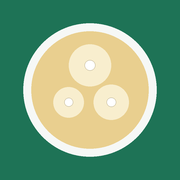
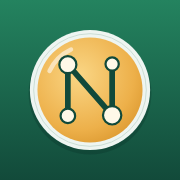
Add files via upload

diff --git a/en-download.html b/en-download.html
@@ -11,7 +11,8 @@
 <meta name="description" content="Download BioLab Nexus for Windows and Android, or add it to the home screen on iPhone. File verification codes.">
 <link rel="alternate" hreflang="tr" href="indir.html">
 <link rel="alternate" hreflang="en" href="en-download.html">
-<link rel="icon" href="simge-192.png">
+<link rel="icon" href="simge.svg" type="image/svg+xml">
+<link rel="icon" href="simge-192.png" sizes="192x192">
 <link rel="apple-touch-icon" href="apple-touch-icon.png">
 <link rel="stylesheet" href="stil.css">
 <script src="site.js" defer></script>
@@ -19,7 +20,7 @@
 <body>
 <a class="atla" href="#icerik">Skip to content</a>
 <header class="ust"><div class="kap ust-ic">
-<a class="marka" href="en.html"><svg class="logo" viewBox="0 0 24 24" aria-hidden="true"><path d="M21 12a9 9 0 1 1-18 0 9 9 0 0 1 18 0zM11.2 10a2.2 2.2 0 1 1-4.4 0 2.2 2.2 0 0 1 4.4 0zM17.1 14a1.6 1.6 0 1 1-3.2 0 1.6 1.6 0 0 1 3.2 0zM15 8.2a1 1 0 1 1-2 0 1 1 0 0 1 2 0z"/></svg><span>BioLab Nexus</span></a>
+<a class="marka" href="en.html"><svg class="logo" viewBox="0 0 24 24" aria-hidden="true"><path d="M21 12a9 9 0 1 1-18 0 9 9 0 0 1 18 0zM9 16V9.9M9.9 9.6l4.1 4.7M15 13.9V8M10.4 8.5a1.4 1.4 0 1 1-2.8 0 1.4 1.4 0 0 1 2.8 0zM16.6 15.5a1.6 1.6 0 1 1-3.2 0 1.6 1.6 0 0 1 3.2 0z"/></svg><span>BioLab Nexus</span></a>
 <nav class="nav" aria-label="Site"><a href="en.html">Home</a><a href="en-download.html" aria-current="page">Download</a><a href="en-institutions.html">For institutions</a><a href="en-help.html">Help</a></nav>
 <details class="dil-secici"><summary aria-label="Language: English"><svg class="dil-dunya" viewBox="0 0 24 24" aria-hidden="true"><circle cx="12" cy="12" r="9"/><path d="M3 12h18M12 3a14 14 0 0 1 0 18M12 3a14 14 0 0 0 0 18"/></svg><span class="dil-ad">English</span><span class="dil-kod">EN</span><svg class="dil-ok" viewBox="0 0 24 24" aria-hidden="true"><path d="m6 9 6 6 6-6"/></svg></summary><ul class="dil-liste"><li><a href="indir.html" hreflang="tr" lang="tr">Türkçe</a></li><li><a href="en-download.html" hreflang="en" lang="en" aria-current="true">English</a></li></ul></details>
 <details class="nav-tel"><summary>Menu</summary><nav aria-label="Site menu"><a href="en.html">Home</a><a href="en-download.html" aria-current="page">Download</a><a href="en-institutions.html">For institutions</a><a href="en-help.html">Help</a></nav></details>
@@ -27,15 +28,15 @@
 <main id="icerik">
 <section class="sayfa-bas"><div class="kap">
 <h1>Download BioLab Nexus</h1>
-<p class="giris">Latest version 0.87.0, 19 November 2026. Download files only from this page; an installer obtained elsewhere may have been altered. The program’s interface is available in English and Turkish.</p>
+<p class="giris">Latest version 0.88.0, 19 November 2026. Download files only from this page; an installer obtained elsewhere may have been altered. The program’s interface is available in English and Turkish.</p>
 </div></section>
 
 <section class="bolum ilk"><div class="kap platformlar">
 <article class="platform" id="windows">
 <svg class="ikon" viewBox="0 0 24 24" aria-hidden="true"><path d="M4 5h16v11H4zM8 20h8M12 16v4"/></svg>
 <h2>Windows</h2>
-<span class="durum">Coming soon</span><p>The Windows installer is being prepared. For pilot institutions we currently do the installation ourselves.</p>
-<ul class="gereksinim"><li>Windows 10 or 11, 64-bit</li><li>At least 4 GB of memory and 2 GB of free disk space</li><li>The 16S reference and BLAST will be included in the installer; nothing else will need to be downloaded</li></ul>
+<span class="durum">Coming soon</span><p>The Windows installer is ready and being tested. The download link will appear here once the signed release is published; for pilot institutions we currently do the installation ourselves.</p>
+<ul class="gereksinim"><li>Windows 10 or 11, 64-bit</li><li>At least 4 GB of memory and 2 GB of free disk space</li><li>No need to install Python or any other program; no administrator permission is asked for</li><li>The 16S reference and BLAST are downloaded once from inside the program on first use (about 150 MB; internet needed)</li></ul>
 </article>
 <article class="platform" id="android">
 <svg class="ikon" viewBox="0 0 24 24" aria-hidden="true"><path d="M7 2.5h10a1.5 1.5 0 0 1 1.5 1.5v16a1.5 1.5 0 0 1-1.5 1.5H7A1.5 1.5 0 0 1 5.5 20V4A1.5 1.5 0 0 1 7 2.5zM10.5 18.5h3"/></svg>
@@ -69,14 +70,14 @@
 
 <section class="bolum" aria-labelledby="yenilikler"><div class="kap dar">
 <h2 id="yenilikler">What’s new in this version</h2>
-<ul class="liste"><li>The program can now be used in English: choose it in the Language box in the top bar (on a phone, at the bottom of the Menu); your records are not translated.</li><li>The website is in English and Turkish, with English screenshots of the program on the English pages.</li><li>New look: a light “Plate” theme and a dark “Night shift” theme, with highly legible typefaces.</li><li>On a computer the program opens in its own window; on a phone it has a bottom tab bar and a Menu that opens every section.</li><li>The home page shows a drawing of the latest plate measurement, the instrument schedule and recent records.</li><li>Account requests and approval: the invitation goes to the school email address, and people choose their own username.</li></ul>
+<ul class="liste"><li>Windows installer: no Python needed and no administrator permission asked for; the program opens in its own window and stops by itself when the window is closed. Records are kept in a separate folder that updates and uninstalling never delete.</li><li>A new program icon.</li><li>Account security: the number of sessions open at the same time on one account is limited (2 by default; the administrator can choose 1–5). Signing in on another device closes the oldest session, and that device is told why. You can see and close your open sessions in Settings.</li><li>The program can now be used in English: choose it in the Language box in the top bar (on a phone, at the bottom of the Menu); your records are not translated.</li><li>The website is in English and Turkish, with English screenshots of the program on the English pages.</li><li>Account requests and approval: the invitation goes to the school email address, and people choose their own username.</li></ul>
 </div></section>
 
 </main>
 <footer class="alt"><div class="kap alt-ic">
 <div><p class="alt-marka">BioLab Nexus</p><p>Records, 16S identification, experiment and instrument booking software for microbiology laboratories.</p></div>
 <nav aria-label="Footer links"><a href="en-download.html">Download</a><a href="en-institutions.html">For institutions</a><a href="en-help.html">Help</a><a href="en-privacy.html">Privacy</a><a href="mailto:iletisim@ornek.com">Contact</a></nav>
-<p class="telif">© 2026 Furkan Koç. All rights reserved. BioLab Nexus may be used only under a written licence agreement. Latest version 0.87.0 (19 November 2026).</p>
+<p class="telif">© 2026 Furkan Koç. All rights reserved. BioLab Nexus may be used only under a written licence agreement. Latest version 0.88.0 (19 November 2026).</p>
 </div></footer>
 </body>
 </html>

diff --git a/indir.html b/indir.html
@@ -11,7 +11,8 @@
 <meta name="description" content="BioLab Nexus&#x27;u Windows bilgisayara ve Android telefona indirin; iPhone&#x27;da ana ekrana ekleyin. Dosya doğrulama kodları.">
 <link rel="alternate" hreflang="tr" href="indir.html">
 <link rel="alternate" hreflang="en" href="en-download.html">
-<link rel="icon" href="simge-192.png">
+<link rel="icon" href="simge.svg" type="image/svg+xml">
+<link rel="icon" href="simge-192.png" sizes="192x192">
 <link rel="apple-touch-icon" href="apple-touch-icon.png">
 <link rel="stylesheet" href="stil.css">
 <script src="site.js" defer></script>
@@ -19,7 +20,7 @@
 <body>
 <a class="atla" href="#icerik">İçeriğe geç</a>
 <header class="ust"><div class="kap ust-ic">
-<a class="marka" href="index.html"><svg class="logo" viewBox="0 0 24 24" aria-hidden="true"><path d="M21 12a9 9 0 1 1-18 0 9 9 0 0 1 18 0zM11.2 10a2.2 2.2 0 1 1-4.4 0 2.2 2.2 0 0 1 4.4 0zM17.1 14a1.6 1.6 0 1 1-3.2 0 1.6 1.6 0 0 1 3.2 0zM15 8.2a1 1 0 1 1-2 0 1 1 0 0 1 2 0z"/></svg><span>BioLab Nexus</span></a>
+<a class="marka" href="index.html"><svg class="logo" viewBox="0 0 24 24" aria-hidden="true"><path d="M21 12a9 9 0 1 1-18 0 9 9 0 0 1 18 0zM9 16V9.9M9.9 9.6l4.1 4.7M15 13.9V8M10.4 8.5a1.4 1.4 0 1 1-2.8 0 1.4 1.4 0 0 1 2.8 0zM16.6 15.5a1.6 1.6 0 1 1-3.2 0 1.6 1.6 0 0 1 3.2 0z"/></svg><span>BioLab Nexus</span></a>
 <nav class="nav" aria-label="Site"><a href="index.html">Ana sayfa</a><a href="indir.html" aria-current="page">İndir</a><a href="kurumlar.html">Kurumlar için</a><a href="yardim.html">Yardım</a></nav>
 <details class="dil-secici"><summary aria-label="Dil: Türkçe"><svg class="dil-dunya" viewBox="0 0 24 24" aria-hidden="true"><circle cx="12" cy="12" r="9"/><path d="M3 12h18M12 3a14 14 0 0 1 0 18M12 3a14 14 0 0 0 0 18"/></svg><span class="dil-ad">Türkçe</span><span class="dil-kod">TR</span><svg class="dil-ok" viewBox="0 0 24 24" aria-hidden="true"><path d="m6 9 6 6 6-6"/></svg></summary><ul class="dil-liste"><li><a href="indir.html" hreflang="tr" lang="tr" aria-current="true">Türkçe</a></li><li><a href="en-download.html" hreflang="en" lang="en">English</a></li></ul></details>
 <details class="nav-tel"><summary>Menü</summary><nav aria-label="Site menüsü"><a href="index.html">Ana sayfa</a><a href="indir.html" aria-current="page">İndir</a><a href="kurumlar.html">Kurumlar için</a><a href="yardim.html">Yardım</a></nav></details>
@@ -27,15 +28,15 @@
 <main id="icerik">
 <section class="sayfa-bas"><div class="kap">
 <h1>BioLab Nexus’u indirin</h1>
-<p class="giris">Son sürüm 0.87.0, 19 Kasım 2026. Dosyaları yalnız bu sayfadan indirin; başka bir yerden gelen kurulum dosyası değiştirilmiş olabilir.</p>
+<p class="giris">Son sürüm 0.88.0, 19 Kasım 2026. Dosyaları yalnız bu sayfadan indirin; başka bir yerden gelen kurulum dosyası değiştirilmiş olabilir.</p>
 </div></section>
 
 <section class="bolum ilk"><div class="kap platformlar">
 <article class="platform" id="windows">
 <svg class="ikon" viewBox="0 0 24 24" aria-hidden="true"><path d="M4 5h16v11H4zM8 20h8M12 16v4"/></svg>
 <h2>Windows</h2>
-<span class="durum">Hazırlanıyor</span><p>Windows kurulum dosyası hazırlanıyor. Pilot kurumlarda kurulumu şimdilik biz yapıyoruz.</p>
-<ul class="gereksinim"><li>Windows 10 ya da 11, 64 bit</li><li>En az 4 GB bellek, 2 GB boş disk alanı</li><li>16S referansı ve BLAST kurulum dosyasının içinde olacak; ayrıca bir şey indirmeniz gerekmeyecek</li></ul>
+<span class="durum">Hazırlanıyor</span><p>Windows kurulum dosyası hazırlandı ve deneniyor. İmzalı sürüm yayımlanınca indirme bağlantısı burada yer alacak; pilot kurumlarda kurulumu şimdilik biz yapıyoruz.</p>
+<ul class="gereksinim"><li>Windows 10 ya da 11, 64 bit</li><li>En az 4 GB bellek, 2 GB boş disk alanı</li><li>Python ya da başka bir program kurmak gerekmez; yönetici izni istenmez</li><li>16S referansı ve BLAST ilk kullanımda programın içinden bir kez indirilir (yaklaşık 150 MB, internet gerekir)</li></ul>
 </article>
 <article class="platform" id="android">
 <svg class="ikon" viewBox="0 0 24 24" aria-hidden="true"><path d="M7 2.5h10a1.5 1.5 0 0 1 1.5 1.5v16a1.5 1.5 0 0 1-1.5 1.5H7A1.5 1.5 0 0 1 5.5 20V4A1.5 1.5 0 0 1 7 2.5zM10.5 18.5h3"/></svg>
@@ -69,14 +70,14 @@
 
 <section class="bolum" aria-labelledby="yenilikler"><div class="kap dar">
 <h2 id="yenilikler">Bu sürümde neler var?</h2>
-<ul class="liste"><li>Program artık İngilizce de kullanılabiliyor: üst çubuktaki Dil kutusundan (telefonda Menü’nün en altından) seçilir; kayıtlar çevrilmez.</li><li>Site Türkçe ve İngilizce; İngilizce sayfalarda programın İngilizce ekran görüntüleri.</li><li>Yeni görünüm: açık “Plaka” ve koyu “Gece vardiyası” temaları, okunaklı yazı tipleri.</li><li>Bilgisayarda program kendi penceresinde açılır; telefonda alt sekme çubuğu ve bütün bölümleri açan Menü.</li><li>Ana sayfada son plaka ölçümünün çizimi, cihaz planı ve son kayıtlar.</li><li>Hesap talebi ve onay akışı: okul e-postasına giden davet, kullanıcı adını kişinin kendisinin seçmesi.</li></ul>
+<ul class="liste"><li>Windows kurulum dosyası: Python gerekmez, yönetici izni istenmez; program kendi penceresinde açılır ve pencere kapanınca kendiliğinden durur. Kayıtlar ayrı bir klasörde tutulur; güncelleme ve kaldırma silmez.</li><li>Yeni program simgesi.</li><li>Hesap güvenliği: bir hesapta aynı anda açık oturum sayısı sınırlı (varsayılan 2; yönetici 1–5 arası seçer). Başka bir cihazdan girilince en eski oturum kapanır ve o cihaza nedeni söylenir. Ayarlar’da açık oturumlarınızı görüp kapatabilirsiniz.</li><li>Program artık İngilizce de kullanılabiliyor: üst çubuktaki Dil kutusundan (telefonda Menü’nün en altından) seçilir; kayıtlar çevrilmez.</li><li>Site Türkçe ve İngilizce; İngilizce sayfalarda programın İngilizce ekran görüntüleri.</li><li>Hesap talebi ve onay akışı: okul e-postasına giden davet, kullanıcı adını kişinin kendisinin seçmesi.</li></ul>
 </div></section>
 
 </main>
 <footer class="alt"><div class="kap alt-ic">
 <div><p class="alt-marka">BioLab Nexus</p><p>Mikrobiyoloji laboratuvarları için kayıt, 16S tanımlama, deney ve cihaz randevu programı.</p></div>
 <nav aria-label="Alt bağlantılar"><a href="indir.html">İndir</a><a href="kurumlar.html">Kurumlar için</a><a href="yardim.html">Yardım</a><a href="gizlilik.html">Gizlilik</a><a href="mailto:iletisim@ornek.com">İletişim</a></nav>
-<p class="telif">© 2026 Furkan Koç. Tüm hakları saklıdır. BioLab Nexus yalnız yazılı lisans sözleşmesiyle kullanılabilir. Son sürüm 0.87.0 (19 Kasım 2026).</p>
+<p class="telif">© 2026 Furkan Koç. Tüm hakları saklıdır. BioLab Nexus yalnız yazılı lisans sözleşmesiyle kullanılabilir. Son sürüm 0.88.0 (19 Kasım 2026).</p>
 </div></footer>
 </body>
 </html>

diff --git a/en.html b/en.html
@@ -11,7 +11,8 @@
 <meta name="description" content="16S identification from Sanger reads, zone measurements, experiment records, instrument bookings, molecular analysis and 3D structure viewing in one program. Windows, Android and iPhone.">
 <link rel="alternate" hreflang="tr" href="index.html">
 <link rel="alternate" hreflang="en" href="en.html">
-<link rel="icon" href="simge-192.png">
+<link rel="icon" href="simge.svg" type="image/svg+xml">
+<link rel="icon" href="simge-192.png" sizes="192x192">
 <link rel="apple-touch-icon" href="apple-touch-icon.png">
 <link rel="stylesheet" href="stil.css">
 <script src="site.js" defer></script>
@@ -19,7 +20,7 @@
 <body>
 <a class="atla" href="#icerik">Skip to content</a>
 <header class="ust"><div class="kap ust-ic">
-<a class="marka" href="en.html"><svg class="logo" viewBox="0 0 24 24" aria-hidden="true"><path d="M21 12a9 9 0 1 1-18 0 9 9 0 0 1 18 0zM11.2 10a2.2 2.2 0 1 1-4.4 0 2.2 2.2 0 0 1 4.4 0zM17.1 14a1.6 1.6 0 1 1-3.2 0 1.6 1.6 0 0 1 3.2 0zM15 8.2a1 1 0 1 1-2 0 1 1 0 0 1 2 0z"/></svg><span>BioLab Nexus</span></a>
+<a class="marka" href="en.html"><svg class="logo" viewBox="0 0 24 24" aria-hidden="true"><path d="M21 12a9 9 0 1 1-18 0 9 9 0 0 1 18 0zM9 16V9.9M9.9 9.6l4.1 4.7M15 13.9V8M10.4 8.5a1.4 1.4 0 1 1-2.8 0 1.4 1.4 0 0 1 2.8 0zM16.6 15.5a1.6 1.6 0 1 1-3.2 0 1.6 1.6 0 0 1 3.2 0z"/></svg><span>BioLab Nexus</span></a>
 <nav class="nav" aria-label="Site"><a href="en.html" aria-current="page">Home</a><a href="en-download.html">Download</a><a href="en-institutions.html">For institutions</a><a href="en-help.html">Help</a></nav>
 <details class="dil-secici"><summary aria-label="Language: English"><svg class="dil-dunya" viewBox="0 0 24 24" aria-hidden="true"><circle cx="12" cy="12" r="9"/><path d="M3 12h18M12 3a14 14 0 0 1 0 18M12 3a14 14 0 0 0 0 18"/></svg><span class="dil-ad">English</span><span class="dil-kod">EN</span><svg class="dil-ok" viewBox="0 0 24 24" aria-hidden="true"><path d="m6 9 6 6 6-6"/></svg></summary><ul class="dil-liste"><li><a href="index.html" hreflang="tr" lang="tr">Türkçe</a></li><li><a href="en.html" hreflang="en" lang="en" aria-current="true">English</a></li></ul></details>
 <details class="nav-tel"><summary>Menu</summary><nav aria-label="Site menu"><a href="en.html" aria-current="page">Home</a><a href="en-download.html">Download</a><a href="en-institutions.html">For institutions</a><a href="en-help.html">Help</a></nav></details>
@@ -128,7 +129,7 @@
 <footer class="alt"><div class="kap alt-ic">
 <div><p class="alt-marka">BioLab Nexus</p><p>Records, 16S identification, experiment and instrument booking software for microbiology laboratories.</p></div>
 <nav aria-label="Footer links"><a href="en-download.html">Download</a><a href="en-institutions.html">For institutions</a><a href="en-help.html">Help</a><a href="en-privacy.html">Privacy</a><a href="mailto:iletisim@ornek.com">Contact</a></nav>
-<p class="telif">© 2026 Furkan Koç. All rights reserved. BioLab Nexus may be used only under a written licence agreement. Latest version 0.87.0 (19 November 2026).</p>
+<p class="telif">© 2026 Furkan Koç. All rights reserved. BioLab Nexus may be used only under a written licence agreement. Latest version 0.88.0 (19 November 2026).</p>
 </div></footer>
 </body>
 </html>

diff --git a/index.html b/index.html
@@ -11,7 +11,8 @@
 <meta name="description" content="Sanger dizilerinden 16S tanımlama, zon ölçümleri, deney kayıtları, cihaz randevuları, moleküler analiz ve 3D yapı görüntüleme tek programda. Windows, Android ve iPhone.">
 <link rel="alternate" hreflang="tr" href="index.html">
 <link rel="alternate" hreflang="en" href="en.html">
-<link rel="icon" href="simge-192.png">
+<link rel="icon" href="simge.svg" type="image/svg+xml">
+<link rel="icon" href="simge-192.png" sizes="192x192">
 <link rel="apple-touch-icon" href="apple-touch-icon.png">
 <link rel="stylesheet" href="stil.css">
 <script src="site.js" defer></script>
@@ -19,7 +20,7 @@
 <body>
 <a class="atla" href="#icerik">İçeriğe geç</a>
 <header class="ust"><div class="kap ust-ic">
-<a class="marka" href="index.html"><svg class="logo" viewBox="0 0 24 24" aria-hidden="true"><path d="M21 12a9 9 0 1 1-18 0 9 9 0 0 1 18 0zM11.2 10a2.2 2.2 0 1 1-4.4 0 2.2 2.2 0 0 1 4.4 0zM17.1 14a1.6 1.6 0 1 1-3.2 0 1.6 1.6 0 0 1 3.2 0zM15 8.2a1 1 0 1 1-2 0 1 1 0 0 1 2 0z"/></svg><span>BioLab Nexus</span></a>
+<a class="marka" href="index.html"><svg class="logo" viewBox="0 0 24 24" aria-hidden="true"><path d="M21 12a9 9 0 1 1-18 0 9 9 0 0 1 18 0zM9 16V9.9M9.9 9.6l4.1 4.7M15 13.9V8M10.4 8.5a1.4 1.4 0 1 1-2.8 0 1.4 1.4 0 0 1 2.8 0zM16.6 15.5a1.6 1.6 0 1 1-3.2 0 1.6 1.6 0 0 1 3.2 0z"/></svg><span>BioLab Nexus</span></a>
 <nav class="nav" aria-label="Site"><a href="index.html" aria-current="page">Ana sayfa</a><a href="indir.html">İndir</a><a href="kurumlar.html">Kurumlar için</a><a href="yardim.html">Yardım</a></nav>
 <details class="dil-secici"><summary aria-label="Dil: Türkçe"><svg class="dil-dunya" viewBox="0 0 24 24" aria-hidden="true"><circle cx="12" cy="12" r="9"/><path d="M3 12h18M12 3a14 14 0 0 1 0 18M12 3a14 14 0 0 0 0 18"/></svg><span class="dil-ad">Türkçe</span><span class="dil-kod">TR</span><svg class="dil-ok" viewBox="0 0 24 24" aria-hidden="true"><path d="m6 9 6 6 6-6"/></svg></summary><ul class="dil-liste"><li><a href="index.html" hreflang="tr" lang="tr" aria-current="true">Türkçe</a></li><li><a href="en.html" hreflang="en" lang="en">English</a></li></ul></details>
 <details class="nav-tel"><summary>Menü</summary><nav aria-label="Site menüsü"><a href="index.html" aria-current="page">Ana sayfa</a><a href="indir.html">İndir</a><a href="kurumlar.html">Kurumlar için</a><a href="yardim.html">Yardım</a></nav></details>
@@ -128,7 +129,7 @@
 <footer class="alt"><div class="kap alt-ic">
 <div><p class="alt-marka">BioLab Nexus</p><p>Mikrobiyoloji laboratuvarları için kayıt, 16S tanımlama, deney ve cihaz randevu programı.</p></div>
 <nav aria-label="Alt bağlantılar"><a href="indir.html">İndir</a><a href="kurumlar.html">Kurumlar için</a><a href="yardim.html">Yardım</a><a href="gizlilik.html">Gizlilik</a><a href="mailto:iletisim@ornek.com">İletişim</a></nav>
-<p class="telif">© 2026 Furkan Koç. Tüm hakları saklıdır. BioLab Nexus yalnız yazılı lisans sözleşmesiyle kullanılabilir. Son sürüm 0.87.0 (19 Kasım 2026).</p>
+<p class="telif">© 2026 Furkan Koç. Tüm hakları saklıdır. BioLab Nexus yalnız yazılı lisans sözleşmesiyle kullanılabilir. Son sürüm 0.88.0 (19 Kasım 2026).</p>
 </div></footer>
 </body>
 </html>

diff --git a/en-institutions.html b/en-institutions.html
@@ -11,7 +11,8 @@
 <meta name="description" content="Ways to set up BioLab Nexus at your university, accounts and roles, licensing, data security and personal data protection.">
 <link rel="alternate" hreflang="tr" href="kurumlar.html">
 <link rel="alternate" hreflang="en" href="en-institutions.html">
-<link rel="icon" href="simge-192.png">
+<link rel="icon" href="simge.svg" type="image/svg+xml">
+<link rel="icon" href="simge-192.png" sizes="192x192">
 <link rel="apple-touch-icon" href="apple-touch-icon.png">
 <link rel="stylesheet" href="stil.css">
 <script src="site.js" defer></script>
@@ -19,7 +20,7 @@
 <body>
 <a class="atla" href="#icerik">Skip to content</a>
 <header class="ust"><div class="kap ust-ic">
-<a class="marka" href="en.html"><svg class="logo" viewBox="0 0 24 24" aria-hidden="true"><path d="M21 12a9 9 0 1 1-18 0 9 9 0 0 1 18 0zM11.2 10a2.2 2.2 0 1 1-4.4 0 2.2 2.2 0 0 1 4.4 0zM17.1 14a1.6 1.6 0 1 1-3.2 0 1.6 1.6 0 0 1 3.2 0zM15 8.2a1 1 0 1 1-2 0 1 1 0 0 1 2 0z"/></svg><span>BioLab Nexus</span></a>
+<a class="marka" href="en.html"><svg class="logo" viewBox="0 0 24 24" aria-hidden="true"><path d="M21 12a9 9 0 1 1-18 0 9 9 0 0 1 18 0zM9 16V9.9M9.9 9.6l4.1 4.7M15 13.9V8M10.4 8.5a1.4 1.4 0 1 1-2.8 0 1.4 1.4 0 0 1 2.8 0zM16.6 15.5a1.6 1.6 0 1 1-3.2 0 1.6 1.6 0 0 1 3.2 0z"/></svg><span>BioLab Nexus</span></a>
 <nav class="nav" aria-label="Site"><a href="en.html">Home</a><a href="en-download.html">Download</a><a href="en-institutions.html" aria-current="page">For institutions</a><a href="en-help.html">Help</a></nav>
 <details class="dil-secici"><summary aria-label="Language: English"><svg class="dil-dunya" viewBox="0 0 24 24" aria-hidden="true"><circle cx="12" cy="12" r="9"/><path d="M3 12h18M12 3a14 14 0 0 1 0 18M12 3a14 14 0 0 0 0 18"/></svg><span class="dil-ad">English</span><span class="dil-kod">EN</span><svg class="dil-ok" viewBox="0 0 24 24" aria-hidden="true"><path d="m6 9 6 6 6-6"/></svg></summary><ul class="dil-liste"><li><a href="kurumlar.html" hreflang="tr" lang="tr">Türkçe</a></li><li><a href="en-institutions.html" hreflang="en" lang="en" aria-current="true">English</a></li></ul></details>
 <details class="nav-tel"><summary>Menu</summary><nav aria-label="Site menu"><a href="en.html">Home</a><a href="en-download.html">Download</a><a href="en-institutions.html" aria-current="page">For institutions</a><a href="en-help.html">Help</a></nav></details>
@@ -90,7 +91,7 @@
 <footer class="alt"><div class="kap alt-ic">
 <div><p class="alt-marka">BioLab Nexus</p><p>Records, 16S identification, experiment and instrument booking software for microbiology laboratories.</p></div>
 <nav aria-label="Footer links"><a href="en-download.html">Download</a><a href="en-institutions.html">For institutions</a><a href="en-help.html">Help</a><a href="en-privacy.html">Privacy</a><a href="mailto:iletisim@ornek.com">Contact</a></nav>
-<p class="telif">© 2026 Furkan Koç. All rights reserved. BioLab Nexus may be used only under a written licence agreement. Latest version 0.87.0 (19 November 2026).</p>
+<p class="telif">© 2026 Furkan Koç. All rights reserved. BioLab Nexus may be used only under a written licence agreement. Latest version 0.88.0 (19 November 2026).</p>
 </div></footer>
 </body>
 </html>

diff --git a/en-help.html b/en-help.html
@@ -11,7 +11,8 @@
 <meta name="description" content="Installing BioLab Nexus, opening an account, Windows and Android warnings, adding it to an iPhone and frequently asked questions.">
 <link rel="alternate" hreflang="tr" href="yardim.html">
 <link rel="alternate" hreflang="en" href="en-help.html">
-<link rel="icon" href="simge-192.png">
+<link rel="icon" href="simge.svg" type="image/svg+xml">
+<link rel="icon" href="simge-192.png" sizes="192x192">
 <link rel="apple-touch-icon" href="apple-touch-icon.png">
 <link rel="stylesheet" href="stil.css">
 <script src="site.js" defer></script>
@@ -19,7 +20,7 @@
 <body>
 <a class="atla" href="#icerik">Skip to content</a>
 <header class="ust"><div class="kap ust-ic">
-<a class="marka" href="en.html"><svg class="logo" viewBox="0 0 24 24" aria-hidden="true"><path d="M21 12a9 9 0 1 1-18 0 9 9 0 0 1 18 0zM11.2 10a2.2 2.2 0 1 1-4.4 0 2.2 2.2 0 0 1 4.4 0zM17.1 14a1.6 1.6 0 1 1-3.2 0 1.6 1.6 0 0 1 3.2 0zM15 8.2a1 1 0 1 1-2 0 1 1 0 0 1 2 0z"/></svg><span>BioLab Nexus</span></a>
+<a class="marka" href="en.html"><svg class="logo" viewBox="0 0 24 24" aria-hidden="true"><path d="M21 12a9 9 0 1 1-18 0 9 9 0 0 1 18 0zM9 16V9.9M9.9 9.6l4.1 4.7M15 13.9V8M10.4 8.5a1.4 1.4 0 1 1-2.8 0 1.4 1.4 0 0 1 2.8 0zM16.6 15.5a1.6 1.6 0 1 1-3.2 0 1.6 1.6 0 0 1 3.2 0z"/></svg><span>BioLab Nexus</span></a>
 <nav class="nav" aria-label="Site"><a href="en.html">Home</a><a href="en-download.html">Download</a><a href="en-institutions.html">For institutions</a><a href="en-help.html" aria-current="page">Help</a></nav>
 <details class="dil-secici"><summary aria-label="Language: English"><svg class="dil-dunya" viewBox="0 0 24 24" aria-hidden="true"><circle cx="12" cy="12" r="9"/><path d="M3 12h18M12 3a14 14 0 0 1 0 18M12 3a14 14 0 0 0 0 18"/></svg><span class="dil-ad">English</span><span class="dil-kod">EN</span><svg class="dil-ok" viewBox="0 0 24 24" aria-hidden="true"><path d="m6 9 6 6 6-6"/></svg></summary><ul class="dil-liste"><li><a href="yardim.html" hreflang="tr" lang="tr">Türkçe</a></li><li><a href="en-help.html" hreflang="en" lang="en" aria-current="true">English</a></li></ul></details>
 <details class="nav-tel"><summary>Menu</summary><nav aria-label="Site menu"><a href="en.html">Home</a><a href="en-download.html">Download</a><a href="en-institutions.html">For institutions</a><a href="en-help.html" aria-current="page">Help</a></nav></details>
@@ -74,7 +75,7 @@
 <footer class="alt"><div class="kap alt-ic">
 <div><p class="alt-marka">BioLab Nexus</p><p>Records, 16S identification, experiment and instrument booking software for microbiology laboratories.</p></div>
 <nav aria-label="Footer links"><a href="en-download.html">Download</a><a href="en-institutions.html">For institutions</a><a href="en-help.html">Help</a><a href="en-privacy.html">Privacy</a><a href="mailto:iletisim@ornek.com">Contact</a></nav>
-<p class="telif">© 2026 Furkan Koç. All rights reserved. BioLab Nexus may be used only under a written licence agreement. Latest version 0.87.0 (19 November 2026).</p>
+<p class="telif">© 2026 Furkan Koç. All rights reserved. BioLab Nexus may be used only under a written licence agreement. Latest version 0.88.0 (19 November 2026).</p>
 </div></footer>
 </body>
 </html>

diff --git a/kurumlar.html b/kurumlar.html
@@ -11,7 +11,8 @@
 <meta name="description" content="BioLab Nexus&#x27;u üniversitenizde kurmanın yolları, hesaplar ve roller, lisans, veri güvenliği ve KVKK.">
 <link rel="alternate" hreflang="tr" href="kurumlar.html">
 <link rel="alternate" hreflang="en" href="en-institutions.html">
-<link rel="icon" href="simge-192.png">
+<link rel="icon" href="simge.svg" type="image/svg+xml">
+<link rel="icon" href="simge-192.png" sizes="192x192">
 <link rel="apple-touch-icon" href="apple-touch-icon.png">
 <link rel="stylesheet" href="stil.css">
 <script src="site.js" defer></script>
@@ -19,7 +20,7 @@
 <body>
 <a class="atla" href="#icerik">İçeriğe geç</a>
 <header class="ust"><div class="kap ust-ic">
-<a class="marka" href="index.html"><svg class="logo" viewBox="0 0 24 24" aria-hidden="true"><path d="M21 12a9 9 0 1 1-18 0 9 9 0 0 1 18 0zM11.2 10a2.2 2.2 0 1 1-4.4 0 2.2 2.2 0 0 1 4.4 0zM17.1 14a1.6 1.6 0 1 1-3.2 0 1.6 1.6 0 0 1 3.2 0zM15 8.2a1 1 0 1 1-2 0 1 1 0 0 1 2 0z"/></svg><span>BioLab Nexus</span></a>
+<a class="marka" href="index.html"><svg class="logo" viewBox="0 0 24 24" aria-hidden="true"><path d="M21 12a9 9 0 1 1-18 0 9 9 0 0 1 18 0zM9 16V9.9M9.9 9.6l4.1 4.7M15 13.9V8M10.4 8.5a1.4 1.4 0 1 1-2.8 0 1.4 1.4 0 0 1 2.8 0zM16.6 15.5a1.6 1.6 0 1 1-3.2 0 1.6 1.6 0 0 1 3.2 0z"/></svg><span>BioLab Nexus</span></a>
 <nav class="nav" aria-label="Site"><a href="index.html">Ana sayfa</a><a href="indir.html">İndir</a><a href="kurumlar.html" aria-current="page">Kurumlar için</a><a href="yardim.html">Yardım</a></nav>
 <details class="dil-secici"><summary aria-label="Dil: Türkçe"><svg class="dil-dunya" viewBox="0 0 24 24" aria-hidden="true"><circle cx="12" cy="12" r="9"/><path d="M3 12h18M12 3a14 14 0 0 1 0 18M12 3a14 14 0 0 0 0 18"/></svg><span class="dil-ad">Türkçe</span><span class="dil-kod">TR</span><svg class="dil-ok" viewBox="0 0 24 24" aria-hidden="true"><path d="m6 9 6 6 6-6"/></svg></summary><ul class="dil-liste"><li><a href="kurumlar.html" hreflang="tr" lang="tr" aria-current="true">Türkçe</a></li><li><a href="en-institutions.html" hreflang="en" lang="en">English</a></li></ul></details>
 <details class="nav-tel"><summary>Menü</summary><nav aria-label="Site menüsü"><a href="index.html">Ana sayfa</a><a href="indir.html">İndir</a><a href="kurumlar.html" aria-current="page">Kurumlar için</a><a href="yardim.html">Yardım</a></nav></details>
@@ -90,7 +91,7 @@
 <footer class="alt"><div class="kap alt-ic">
 <div><p class="alt-marka">BioLab Nexus</p><p>Mikrobiyoloji laboratuvarları için kayıt, 16S tanımlama, deney ve cihaz randevu programı.</p></div>
 <nav aria-label="Alt bağlantılar"><a href="indir.html">İndir</a><a href="kurumlar.html">Kurumlar için</a><a href="yardim.html">Yardım</a><a href="gizlilik.html">Gizlilik</a><a href="mailto:iletisim@ornek.com">İletişim</a></nav>
-<p class="telif">© 2026 Furkan Koç. Tüm hakları saklıdır. BioLab Nexus yalnız yazılı lisans sözleşmesiyle kullanılabilir. Son sürüm 0.87.0 (19 Kasım 2026).</p>
+<p class="telif">© 2026 Furkan Koç. Tüm hakları saklıdır. BioLab Nexus yalnız yazılı lisans sözleşmesiyle kullanılabilir. Son sürüm 0.88.0 (19 Kasım 2026).</p>
 </div></footer>
 </body>
 </html>

diff --git a/yardim.html b/yardim.html
@@ -11,7 +11,8 @@
 <meta name="description" content="BioLab Nexus kurulumu, hesap açma, Windows ve Android uyarıları, iPhone&#x27;a ekleme ve sık sorulan sorular.">
 <link rel="alternate" hreflang="tr" href="yardim.html">
 <link rel="alternate" hreflang="en" href="en-help.html">
-<link rel="icon" href="simge-192.png">
+<link rel="icon" href="simge.svg" type="image/svg+xml">
+<link rel="icon" href="simge-192.png" sizes="192x192">
 <link rel="apple-touch-icon" href="apple-touch-icon.png">
 <link rel="stylesheet" href="stil.css">
 <script src="site.js" defer></script>
@@ -19,7 +20,7 @@
 <body>
 <a class="atla" href="#icerik">İçeriğe geç</a>
 <header class="ust"><div class="kap ust-ic">
-<a class="marka" href="index.html"><svg class="logo" viewBox="0 0 24 24" aria-hidden="true"><path d="M21 12a9 9 0 1 1-18 0 9 9 0 0 1 18 0zM11.2 10a2.2 2.2 0 1 1-4.4 0 2.2 2.2 0 0 1 4.4 0zM17.1 14a1.6 1.6 0 1 1-3.2 0 1.6 1.6 0 0 1 3.2 0zM15 8.2a1 1 0 1 1-2 0 1 1 0 0 1 2 0z"/></svg><span>BioLab Nexus</span></a>
+<a class="marka" href="index.html"><svg class="logo" viewBox="0 0 24 24" aria-hidden="true"><path d="M21 12a9 9 0 1 1-18 0 9 9 0 0 1 18 0zM9 16V9.9M9.9 9.6l4.1 4.7M15 13.9V8M10.4 8.5a1.4 1.4 0 1 1-2.8 0 1.4 1.4 0 0 1 2.8 0zM16.6 15.5a1.6 1.6 0 1 1-3.2 0 1.6 1.6 0 0 1 3.2 0z"/></svg><span>BioLab Nexus</span></a>
 <nav class="nav" aria-label="Site"><a href="index.html">Ana sayfa</a><a href="indir.html">İndir</a><a href="kurumlar.html">Kurumlar için</a><a href="yardim.html" aria-current="page">Yardım</a></nav>
 <details class="dil-secici"><summary aria-label="Dil: Türkçe"><svg class="dil-dunya" viewBox="0 0 24 24" aria-hidden="true"><circle cx="12" cy="12" r="9"/><path d="M3 12h18M12 3a14 14 0 0 1 0 18M12 3a14 14 0 0 0 0 18"/></svg><span class="dil-ad">Türkçe</span><span class="dil-kod">TR</span><svg class="dil-ok" viewBox="0 0 24 24" aria-hidden="true"><path d="m6 9 6 6 6-6"/></svg></summary><ul class="dil-liste"><li><a href="yardim.html" hreflang="tr" lang="tr" aria-current="true">Türkçe</a></li><li><a href="en-help.html" hreflang="en" lang="en">English</a></li></ul></details>
 <details class="nav-tel"><summary>Menü</summary><nav aria-label="Site menüsü"><a href="index.html">Ana sayfa</a><a href="indir.html">İndir</a><a href="kurumlar.html">Kurumlar için</a><a href="yardim.html" aria-current="page">Yardım</a></nav></details>
@@ -74,7 +75,7 @@
 <footer class="alt"><div class="kap alt-ic">
 <div><p class="alt-marka">BioLab Nexus</p><p>Mikrobiyoloji laboratuvarları için kayıt, 16S tanımlama, deney ve cihaz randevu programı.</p></div>
 <nav aria-label="Alt bağlantılar"><a href="indir.html">İndir</a><a href="kurumlar.html">Kurumlar için</a><a href="yardim.html">Yardım</a><a href="gizlilik.html">Gizlilik</a><a href="mailto:iletisim@ornek.com">İletişim</a></nav>
-<p class="telif">© 2026 Furkan Koç. Tüm hakları saklıdır. BioLab Nexus yalnız yazılı lisans sözleşmesiyle kullanılabilir. Son sürüm 0.87.0 (19 Kasım 2026).</p>
+<p class="telif">© 2026 Furkan Koç. Tüm hakları saklıdır. BioLab Nexus yalnız yazılı lisans sözleşmesiyle kullanılabilir. Son sürüm 0.88.0 (19 Kasım 2026).</p>
 </div></footer>
 </body>
 </html>

diff --git a/en-privacy.html b/en-privacy.html
@@ -11,7 +11,8 @@
 <meta name="description" content="What data the BioLab Nexus website and program process, and what they do not.">
 <link rel="alternate" hreflang="tr" href="gizlilik.html">
 <link rel="alternate" hreflang="en" href="en-privacy.html">
-<link rel="icon" href="simge-192.png">
+<link rel="icon" href="simge.svg" type="image/svg+xml">
+<link rel="icon" href="simge-192.png" sizes="192x192">
 <link rel="apple-touch-icon" href="apple-touch-icon.png">
 <link rel="stylesheet" href="stil.css">
 <script src="site.js" defer></script>
@@ -19,7 +20,7 @@
 <body>
 <a class="atla" href="#icerik">Skip to content</a>
 <header class="ust"><div class="kap ust-ic">
-<a class="marka" href="en.html"><svg class="logo" viewBox="0 0 24 24" aria-hidden="true"><path d="M21 12a9 9 0 1 1-18 0 9 9 0 0 1 18 0zM11.2 10a2.2 2.2 0 1 1-4.4 0 2.2 2.2 0 0 1 4.4 0zM17.1 14a1.6 1.6 0 1 1-3.2 0 1.6 1.6 0 0 1 3.2 0zM15 8.2a1 1 0 1 1-2 0 1 1 0 0 1 2 0z"/></svg><span>BioLab Nexus</span></a>
+<a class="marka" href="en.html"><svg class="logo" viewBox="0 0 24 24" aria-hidden="true"><path d="M21 12a9 9 0 1 1-18 0 9 9 0 0 1 18 0zM9 16V9.9M9.9 9.6l4.1 4.7M15 13.9V8M10.4 8.5a1.4 1.4 0 1 1-2.8 0 1.4 1.4 0 0 1 2.8 0zM16.6 15.5a1.6 1.6 0 1 1-3.2 0 1.6 1.6 0 0 1 3.2 0z"/></svg><span>BioLab Nexus</span></a>
 <nav class="nav" aria-label="Site"><a href="en.html">Home</a><a href="en-download.html">Download</a><a href="en-institutions.html">For institutions</a><a href="en-help.html">Help</a></nav>
 <details class="dil-secici"><summary aria-label="Language: English"><svg class="dil-dunya" viewBox="0 0 24 24" aria-hidden="true"><circle cx="12" cy="12" r="9"/><path d="M3 12h18M12 3a14 14 0 0 1 0 18M12 3a14 14 0 0 0 0 18"/></svg><span class="dil-ad">English</span><span class="dil-kod">EN</span><svg class="dil-ok" viewBox="0 0 24 24" aria-hidden="true"><path d="m6 9 6 6 6-6"/></svg></summary><ul class="dil-liste"><li><a href="gizlilik.html" hreflang="tr" lang="tr">Türkçe</a></li><li><a href="en-privacy.html" hreflang="en" lang="en" aria-current="true">English</a></li></ul></details>
 <details class="nav-tel"><summary>Menu</summary><nav aria-label="Site menu"><a href="en.html">Home</a><a href="en-download.html">Download</a><a href="en-institutions.html">For institutions</a><a href="en-help.html">Help</a></nav></details>
@@ -54,7 +55,7 @@
 <footer class="alt"><div class="kap alt-ic">
 <div><p class="alt-marka">BioLab Nexus</p><p>Records, 16S identification, experiment and instrument booking software for microbiology laboratories.</p></div>
 <nav aria-label="Footer links"><a href="en-download.html">Download</a><a href="en-institutions.html">For institutions</a><a href="en-help.html">Help</a><a href="en-privacy.html">Privacy</a><a href="mailto:iletisim@ornek.com">Contact</a></nav>
-<p class="telif">© 2026 Furkan Koç. All rights reserved. BioLab Nexus may be used only under a written licence agreement. Latest version 0.87.0 (19 November 2026).</p>
+<p class="telif">© 2026 Furkan Koç. All rights reserved. BioLab Nexus may be used only under a written licence agreement. Latest version 0.88.0 (19 November 2026).</p>
 </div></footer>
 </body>
 </html>

diff --git a/gizlilik.html b/gizlilik.html
@@ -11,7 +11,8 @@
 <meta name="description" content="BioLab Nexus sitesi ve programı hangi verileri işler, hangilerini işlemez.">
 <link rel="alternate" hreflang="tr" href="gizlilik.html">
 <link rel="alternate" hreflang="en" href="en-privacy.html">
-<link rel="icon" href="simge-192.png">
+<link rel="icon" href="simge.svg" type="image/svg+xml">
+<link rel="icon" href="simge-192.png" sizes="192x192">
 <link rel="apple-touch-icon" href="apple-touch-icon.png">
 <link rel="stylesheet" href="stil.css">
 <script src="site.js" defer></script>
@@ -19,7 +20,7 @@
 <body>
 <a class="atla" href="#icerik">İçeriğe geç</a>
 <header class="ust"><div class="kap ust-ic">
-<a class="marka" href="index.html"><svg class="logo" viewBox="0 0 24 24" aria-hidden="true"><path d="M21 12a9 9 0 1 1-18 0 9 9 0 0 1 18 0zM11.2 10a2.2 2.2 0 1 1-4.4 0 2.2 2.2 0 0 1 4.4 0zM17.1 14a1.6 1.6 0 1 1-3.2 0 1.6 1.6 0 0 1 3.2 0zM15 8.2a1 1 0 1 1-2 0 1 1 0 0 1 2 0z"/></svg><span>BioLab Nexus</span></a>
+<a class="marka" href="index.html"><svg class="logo" viewBox="0 0 24 24" aria-hidden="true"><path d="M21 12a9 9 0 1 1-18 0 9 9 0 0 1 18 0zM9 16V9.9M9.9 9.6l4.1 4.7M15 13.9V8M10.4 8.5a1.4 1.4 0 1 1-2.8 0 1.4 1.4 0 0 1 2.8 0zM16.6 15.5a1.6 1.6 0 1 1-3.2 0 1.6 1.6 0 0 1 3.2 0z"/></svg><span>BioLab Nexus</span></a>
 <nav class="nav" aria-label="Site"><a href="index.html">Ana sayfa</a><a href="indir.html">İndir</a><a href="kurumlar.html">Kurumlar için</a><a href="yardim.html">Yardım</a></nav>
 <details class="dil-secici"><summary aria-label="Dil: Türkçe"><svg class="dil-dunya" viewBox="0 0 24 24" aria-hidden="true"><circle cx="12" cy="12" r="9"/><path d="M3 12h18M12 3a14 14 0 0 1 0 18M12 3a14 14 0 0 0 0 18"/></svg><span class="dil-ad">Türkçe</span><span class="dil-kod">TR</span><svg class="dil-ok" viewBox="0 0 24 24" aria-hidden="true"><path d="m6 9 6 6 6-6"/></svg></summary><ul class="dil-liste"><li><a href="gizlilik.html" hreflang="tr" lang="tr" aria-current="true">Türkçe</a></li><li><a href="en-privacy.html" hreflang="en" lang="en">English</a></li></ul></details>
 <details class="nav-tel"><summary>Menü</summary><nav aria-label="Site menüsü"><a href="index.html">Ana sayfa</a><a href="indir.html">İndir</a><a href="kurumlar.html">Kurumlar için</a><a href="yardim.html">Yardım</a></nav></details>
@@ -54,7 +55,7 @@
 <footer class="alt"><div class="kap alt-ic">
 <div><p class="alt-marka">BioLab Nexus</p><p>Mikrobiyoloji laboratuvarları için kayıt, 16S tanımlama, deney ve cihaz randevu programı.</p></div>
 <nav aria-label="Alt bağlantılar"><a href="indir.html">İndir</a><a href="kurumlar.html">Kurumlar için</a><a href="yardim.html">Yardım</a><a href="gizlilik.html">Gizlilik</a><a href="mailto:iletisim@ornek.com">İletişim</a></nav>
-<p class="telif">© 2026 Furkan Koç. Tüm hakları saklıdır. BioLab Nexus yalnız yazılı lisans sözleşmesiyle kullanılabilir. Son sürüm 0.87.0 (19 Kasım 2026).</p>
+<p class="telif">© 2026 Furkan Koç. Tüm hakları saklıdır. BioLab Nexus yalnız yazılı lisans sözleşmesiyle kullanılabilir. Son sürüm 0.88.0 (19 Kasım 2026).</p>
 </div></footer>
 </body>
 </html>

diff --git a/404.html b/404.html
@@ -10,7 +10,8 @@
 <title>Sayfa bulunamadı / Page not found: BioLab Nexus</title>
 <meta name="description" content="">
 
-<link rel="icon" href="simge-192.png">
+<link rel="icon" href="simge.svg" type="image/svg+xml">
+<link rel="icon" href="simge-192.png" sizes="192x192">
 <link rel="apple-touch-icon" href="apple-touch-icon.png">
 <link rel="stylesheet" href="stil.css">
 <script src="site.js" defer></script>
@@ -18,7 +19,7 @@
 <body>
 <a class="atla" href="#icerik">İçeriğe geç</a>
 <header class="ust"><div class="kap ust-ic">
-<a class="marka" href="index.html"><svg class="logo" viewBox="0 0 24 24" aria-hidden="true"><path d="M21 12a9 9 0 1 1-18 0 9 9 0 0 1 18 0zM11.2 10a2.2 2.2 0 1 1-4.4 0 2.2 2.2 0 0 1 4.4 0zM17.1 14a1.6 1.6 0 1 1-3.2 0 1.6 1.6 0 0 1 3.2 0zM15 8.2a1 1 0 1 1-2 0 1 1 0 0 1 2 0z"/></svg><span>BioLab Nexus</span></a>
+<a class="marka" href="index.html"><svg class="logo" viewBox="0 0 24 24" aria-hidden="true"><path d="M21 12a9 9 0 1 1-18 0 9 9 0 0 1 18 0zM9 16V9.9M9.9 9.6l4.1 4.7M15 13.9V8M10.4 8.5a1.4 1.4 0 1 1-2.8 0 1.4 1.4 0 0 1 2.8 0zM16.6 15.5a1.6 1.6 0 1 1-3.2 0 1.6 1.6 0 0 1 3.2 0z"/></svg><span>BioLab Nexus</span></a>
 <nav class="nav" aria-label="Site"><a href="index.html">Ana sayfa</a><a href="indir.html">İndir</a><a href="kurumlar.html">Kurumlar için</a><a href="yardim.html">Yardım</a></nav>
 
 <details class="nav-tel"><summary>Menü</summary><nav aria-label="Site menüsü"><a href="index.html">Ana sayfa</a><a href="indir.html">İndir</a><a href="kurumlar.html">Kurumlar için</a><a href="yardim.html">Yardım</a></nav></details>
@@ -29,7 +30,7 @@
 <footer class="alt"><div class="kap alt-ic">
 <div><p class="alt-marka">BioLab Nexus</p><p>Mikrobiyoloji laboratuvarları için kayıt, 16S tanımlama, deney ve cihaz randevu programı.</p></div>
 <nav aria-label="Alt bağlantılar"><a href="indir.html">İndir</a><a href="kurumlar.html">Kurumlar için</a><a href="yardim.html">Yardım</a><a href="gizlilik.html">Gizlilik</a><a href="mailto:iletisim@ornek.com">İletişim</a></nav>
-<p class="telif">© 2026 Furkan Koç. Tüm hakları saklıdır. BioLab Nexus yalnız yazılı lisans sözleşmesiyle kullanılabilir. Son sürüm 0.87.0 (19 Kasım 2026).</p>
+<p class="telif">© 2026 Furkan Koç. Tüm hakları saklıdır. BioLab Nexus yalnız yazılı lisans sözleşmesiyle kullanılabilir. Son sürüm 0.88.0 (19 Kasım 2026).</p>
 </div></footer>
 </body>
 </html>
